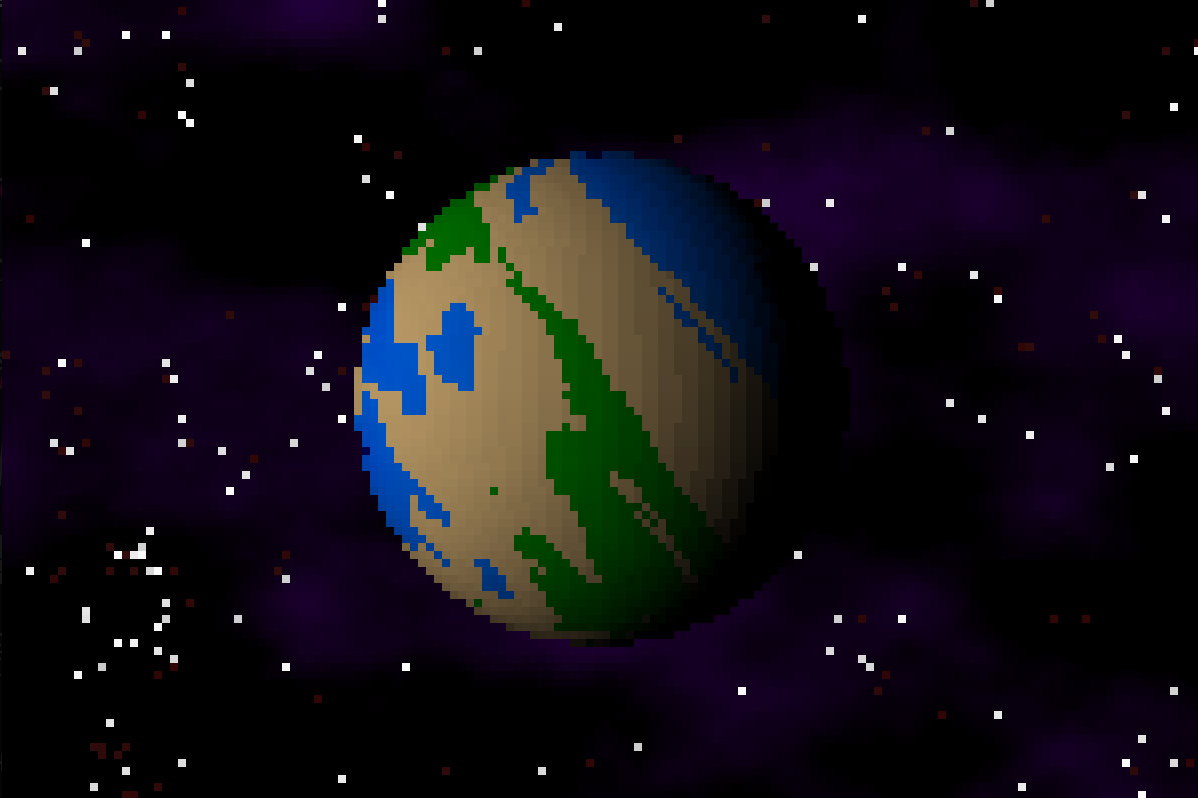
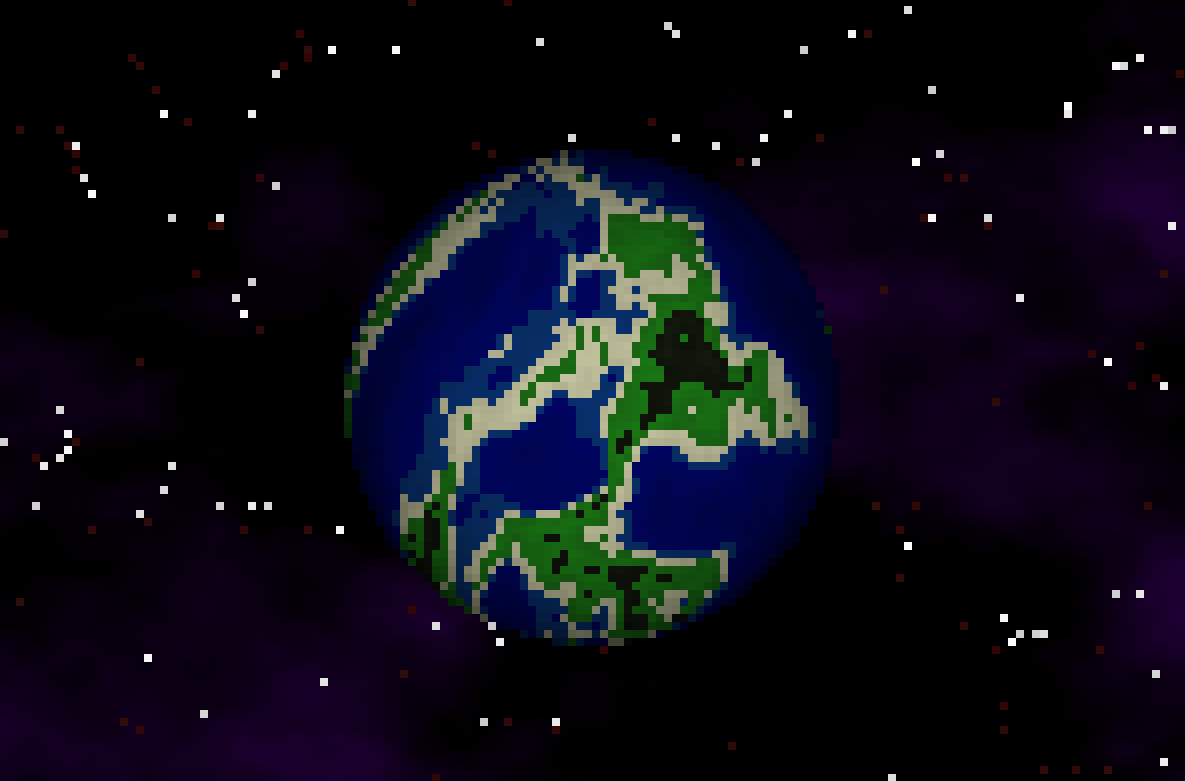
Tweaked demo

diff --git a/demos/planets/src/main.c b/demos/planets/src/main.c
@@ -16,7 +16,7 @@
 #define WIN_SCALE 8
 #define WIN_TITLE "Planets Demo - Press SPACE for new planet"
 #define MAX_DEPTH 15
-#define TEXTURE_SIZE 200
+#define TEXTURE_SIZE 300
 
 typedef struct {
   model_t model;
@@ -24,6 +24,7 @@ typedef struct {
   u32 *surface_texture, *background_texture;
   float3 sun_color, sun_direction;
   fragment_shader_t frag_shader;
+  float temperature;
 } planet_t;
 
 // Color conversion functions using SDL (required by shader-works)
@@ -134,8 +135,9 @@ void generate_background_texture(planet_t *p, int seed) {
   }
 
   // sun color, direction
-  p->sun_color = make_float3(255, rand_float_range(60, 255), rand_float_range(60, 255));
-  p->sun_direction = make_float3(-rand_float_range(0.1f, 0.9f), -rand_float_range(0.1f, 0.9f), -rand_float_range(0.1f, 0.9f));
+  float intensity = rand_float_range(230, 255);
+  p->sun_color = make_float3(rand_float_range(230, 255), intensity * 0.9, intensity);
+  p->sun_direction = (float3){ 0, 0, -1 };
 }
 
 void generate_surface_texture(planet_t *p, int seed) {
@@ -154,30 +156,81 @@ void generate_surface_texture(planet_t *p, int seed) {
       float x_coord = cosf(angle) * 1.5f;
       float y_coord = sinf(angle) * 1.5f + (float)y / TEXTURE_SIZE * 4.0f;
 
-      float fbm_val = fbm(x_coord, y_coord, 5, seed);
-      float ridge_val = ridgeNoise(x_coord, y_coord, seed + 1000);
+      // Layer 1: Large-scale landforms using FBM (soft rolling hills)
+      float base_terrain = fbm(x_coord * 0.4f, y_coord * 0.4f, 5, seed);
 
-      float noise_val = pow(fbm_val * 0.5f + ridge_val * 0.5f, 1.2f) - 0.5f;
+      // Layer 2: Mid-scale detail using Perlin noise (adds variation)
+      float detail_noise = noise2D(x_coord * 1.5f, y_coord * 1.5f, seed + 100);
 
-      float normalized = (noise_val + 1.0f) * 0.5f;
+      // Layer 3: Sharp peaks using ridge noise (creates dramatic mountains)
+      float ridge_peaks = ridgeNoise(x_coord * 1.0f, y_coord * 1.0f, seed + 200);
+
+      // Layer 4: Fine-scale ridge detail
+      float fine_ridges = ridgeNoise(x_coord * 2.0f, y_coord * 2.0f, seed + 300);
+
+      // Composite the noise layers with strategic mixing - emphasize peaks and troughs
+      // Base terrain with ocean bias (negative offset for more water)
+      float composite = base_terrain * 0.25f;           // 25% large-scale variation
+      composite += detail_noise * 0.15f;                // 15% mid-scale detail
+      composite += ridge_peaks * 0.35f;                 // 35% sharp peaks (increased)
+      composite += fine_ridges * 0.25f;                 // 25% fine detail (increased)
+
+      // Apply a slight compression to emphasize oceans and mountains
+      composite -= 0.5f;  // Ocean bias - pushes baseline lower
+      composite += p->temperature * 0.05f; // Temperature influence - warmer planets have more land
+
+      // Normalize to [0, 1]
+      float normalized = (composite + 1.0f) * 0.5f;
       normalized = fmaxf(0.0f, fminf(1.0f, normalized));
 
-      normalized = powf(normalized, 0.95f);
+      // Apply aggressive curve: compress middle range, push toward extremes for compact peaks/troughs
+      // Use a power function to create more dramatic peaks and valleys
+      normalized = powf(normalized, 1.5f);  // Amplify extremes
+      if (normalized < 0.35f) {
+        normalized = normalized * 0.75f;  // Compress oceans slightly
+      } else if (normalized > 0.60f) {
+        normalized = 0.35f + (normalized - 0.35f) * 1.4f;  // Amplify mountains more aggressively
+      }
 
-      u32 color_val = rgb_to_u32(0, 0, 100);
-      if (normalized < 0.3f) {
-        color_val = rgb_to_u32(0, 0, (u8)normalize_to_range(normalized, 50, 150));
-      } else if (normalized < 0.4f) {
-        color_val = rgb_to_u32(0, (u8)normalize_to_range(normalized - 0.3f, 100, 255), 200);
-      } else if (normalized < 0.5f) {
-        color_val = rgb_to_u32(200, 200, 100);
+      normalized = fmaxf(0.0f, fminf(1.0f, normalized));
+
+      // Terrain coloring with distinct biomes
+      u32 color_val;
+      if (normalized < 0.25f) {
+        // Deep ocean - dark blue
+        float depth = normalized / 0.25f;
+        u8 blue = (u8)normalize_to_range(depth, 20, 100);
+        color_val = rgb_to_u32(0, 5, blue);
+      } else if (normalized < 0.32f) {
+        // Shallow ocean - brighter blue
+        float shallow = (normalized - 0.25f) / 0.07f;
+        u8 blue = (u8)normalize_to_range(shallow, 100, 180);
+        color_val = rgb_to_u32(10, 50, blue);
+      } else if (normalized < 0.37f) {
+        // Beach/sand - tan
+        float beach = (normalized - 0.32f) / 0.04f;
+        u8 val = (u8)normalize_to_range(beach, 180, 220);
+        color_val = rgb_to_u32(val, (u8)(val * 0.9f), (u8)(val * 0.7f));
+      } else if (normalized < 0.40f) {
+        // Grassland - green
+        float grass = (normalized - 0.36f) / 0.14f;
+        u8 green = (u8)normalize_to_range(grass, 100, 200);
+        color_val = rgb_to_u32(30, green, 20);
+      } else if (normalized < 0.55f) {
+        // Forest/dark terrain - dark green/brown
+        float forest = (normalized - 0.50f) / 0.15f;
+        u8 val = (u8)normalize_to_range(forest, 50, 100);
+        color_val = rgb_to_u32(val, (u8)(val * 1.2f), (u8)(val * 0.6f));
       } else if (normalized < 0.6f) {
-        color_val = rgb_to_u32(0, (u8)normalize_to_range(normalized - 0.5f, 150, 255), 0);
-      } else if (normalized < 0.8f) {
-        u8 val = (u8)normalize_to_range(normalized - 0.6f, 70, 150);
+        // Rocky mountains - gray
+        float rocky = (normalized - 0.55f) / 0.10f;
+        u8 val = (u8)normalize_to_range(rocky, 80, 160);
         color_val = rgb_to_u32(val, val, val);
       } else {
-        color_val = rgb_to_u32(255, 255, 255);
+        // Snow peaks - white
+        float snow = (normalized - 0.65f) / 0.35f;
+        u8 val = (u8)normalize_to_range(snow, 180, 255);
+        color_val = rgb_to_u32(val, val, val);
       }
 
       p->surface_texture[y * TEXTURE_SIZE + x] = color_val;
@@ -192,8 +245,9 @@ void new_planet(planet_t *p) {
   srand(seed);
 
   p->radius = rand_float_range(1.75f, 2.5f);
-  p->rotation_speed = rand_float_range(0.0001f, 0.0025f);
+  p->rotation_speed = -rand_float_range(0.0001f, 0.0025f);
   p->model.transform.pitch = rand_float_range(0.0f, 1.5f * M_PI);
+  p->temperature = rand_float_range(-1.0f, 1.0f); // -1 = cold, 0 = temperate, 1 = hot
 
   generate_sphere(&p->model, p->radius, 96, 96, make_float3(0.0f, 0.f, -8.0f));
 

diff --git a/demos/planets/README.md b/demos/planets/README.md
@@ -1,8 +1,9 @@
 # Planets
 
-| | |
-|:-------------------------:|:-------------------------:|
-| ![Planet 1](./screenshots/ss-1.png) | ![Planet 2](./screenshots/ss-3.png)
+<p align="center">
+  <img src="./screenshots/ss-1.png" width="400"/>
+  <img src="./screenshots/ss-2.png" width="400"/>
+</p>
 
 **Procedurally generated planets rendered with diffuse lighting and seamless textures.**
 